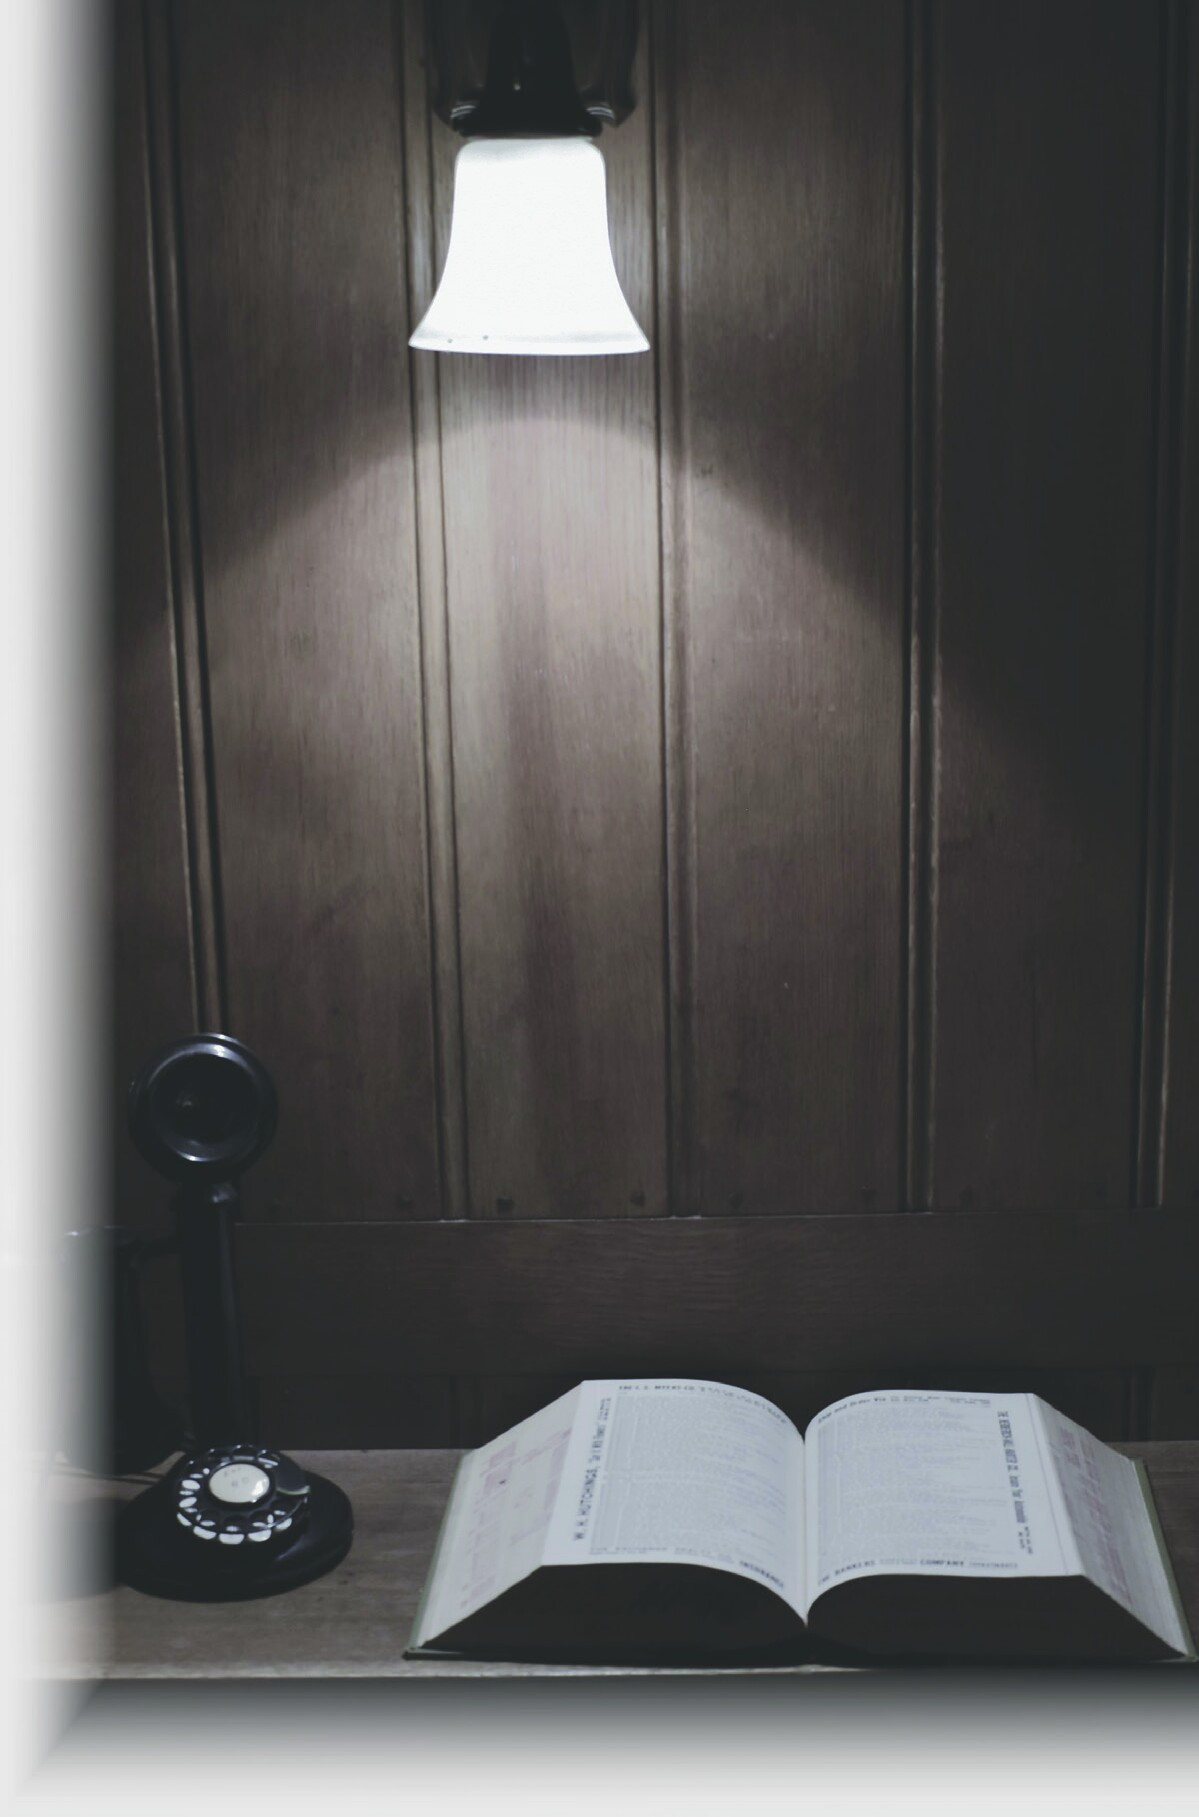
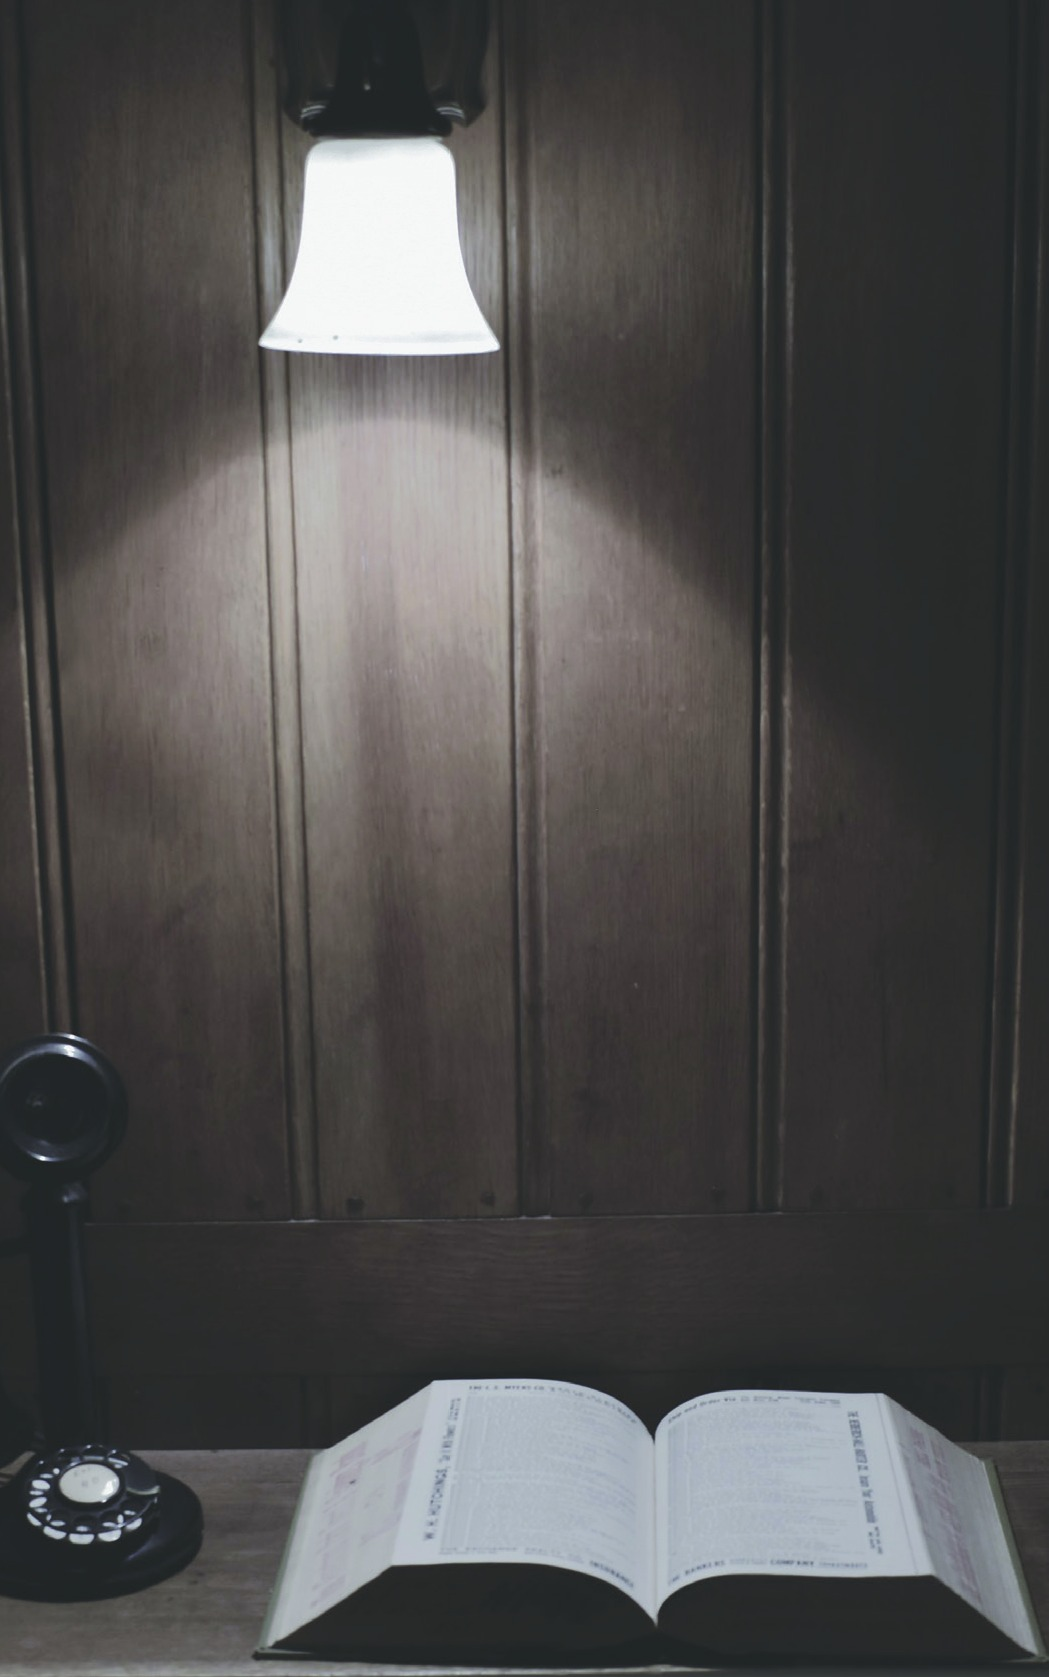
Remove Winter 2018 image overlays

diff --git a/src/e4a449b3-06b6-4826-9f6f-013aa192a096.html b/src/e4a449b3-06b6-4826-9f6f-013aa192a096.html
@@ -1,6 +1,6 @@
 <article data-article-id="e4a449b3-06b6-4826-9f6f-013aa192a096">
   <figure>
-    <img src="/images/e4a449b3-06b6-4826-9f6f-013aa192a096-1.jpg" alt="A lamp, window, flowers, and an open Bible">
+    <img src="/images/e4a449b3-06b6-4826-9f6f-013aa192a096-1.jpg" alt="A lampshade and pull chain before a softly lit window">
   </figure>
   <p><em>Sometimes, Lord, I come before You with a weary mind. The morning has been long… loud with teasing and tension… trampled on and trodden over. Or maybe I am the trampled one. I feel spent already. I don’t have the quiet mind with which one ought to approach the Most High God, but I come anyway. I must. I need You. Today, I heard again the dismal headlines from this sin-sick world. And God, I am afraid, not for myself, but for my children. You give us families like flocks; but we are so inadequate to shelter them from the evil overtaking the earth. Dusky, unnamed fears crouch at the edge of my consciousness, shadowing my daily duties with uneasiness. Things like training, meals, children’s hearts, friends to reach, apologies to make, character to attain—these throng my mind in demanding multitude, leaving me with half-formed prayers and scattered requests. But beyond those regular needs hover disease, deceit, and death. Yet Your Word is all-sufficient. I come before You now, opening this Gift, seeking strength to sustain me. And how fitting is this: today’s reading is Psalm 46, beloved and timeless words. Lord, as I read, my mind makes comment, applying Your words to my life.</em></p>
   <p>********************************************</p>

diff --git a/src/547e464d-0278-45f5-a1f9-1b45bdbc740d.html b/src/547e464d-0278-45f5-a1f9-1b45bdbc740d.html
@@ -20,7 +20,7 @@
   <p>Brother Craig was appointed treasurer at the start-up of our ministry in 2015. We are very grateful for his many hours of faithful service as he has fulfilled these responsibilities. Other than his duties as the treasurer for The Berean Voice, he spends much of his time in his wood shop, where he specializes in cabinetry and other such projects.</p>
   <p>Craig has been married to Diane for 33 years. The Lord has blessed them with ten children, of which two are married. They currently have three grandchildren, which bring them much joy. Some over four years ago, the Baumans moved to Ohio from Wyoming. After their move to this community, they joined our church, Faith Christian Fellowship. A year or so later we divided into two churches on opposite ends of the county, since our church was filled to capacity. At that time Craigs stayed with Shining Light Christian Fellowship, the west church, where they have continued to faithfully serve the Lord.</p>
   <figure>
-    <img src="/images/547e464d-0278-45f5-a1f9-1b45bdbc740d-5.jpg" alt="Craig and Diane Bauman seated with their family in a formal group portrait with Psalm 27:14 printed across the image">
+    <img src="/images/547e464d-0278-45f5-a1f9-1b45bdbc740d-5.jpg" alt="Craig and Diane Bauman seated with their family in a formal group portrait">
   </figure>
   <table>
     <caption><strong>Est. Average—Costs Per Quarter</strong></caption>

diff --git a/AGENTS.md b/AGENTS.md
@@ -234,6 +234,10 @@ Export only images that genuinely belong to eligible articles. Associate an imag
 - Do not generate replacement artwork or materially retouch an image.
 - Crop, rotate, or flip an extracted asset only when needed to reproduce its printed appearance; record that transformation in verification metadata.
 - Do not use a full-page screenshot when a clean article asset can be recovered.
+- Treat publisher-added layout treatments—including separate article or poem text, translucent reading panels, opacity fades or colour washes, section/header/footer bars, page rules and numbers, decorative frames or shadows, and text banners—as layout overlays rather than image content. Do not bake a separable layout overlay into an exported photograph or illustration.
+- For every layered, tiled, masked, or full-page background image, inspect the raw PDF image objects, paint order, clipping paths, soft masks, and transparency groups as well as the rendered page. Export the clean base asset when one exists; otherwise reassemble only the exact base-image pieces at their PDF coordinates. A page render with text objects suppressed is not proof that the remaining raster is overlay-free.
+- Omit separable layout overlays while preserving the underlying source pixels, published crop, aspect ratio, orientation, and useful resolution. Do not mistake intrinsic fog, depth-of-field blur, lighting, toning, or texture for an overlay. Never generate, inpaint, clone, heal, or otherwise synthesize pixels hidden by an overlay. A uniform flattened colour or opacity blend may be reversed only when the exact blend is established by retained source black/white points or equivalent object evidence; record the evidence and deterministic inverse transformation. If an overlay is otherwise irreversibly baked into the only source raster, use a meaningful unobstructed crop only when it remains faithful and useful; otherwise retain the exact source raster and document the unavoidable overlay explicitly instead of claiming that the asset is clean.
+- In each affected image's `rights_note` or verification metadata, identify the clean base object or reconstruction used and name the omitted overlay treatments. Preserve text or markings intrinsic to the only source raster or substantive to a standalone chart, diagram, or graphic; separately painted publisher typography remains a removable overlay.
 - When meaningful vector or font-based content such as sheet music cannot be recovered as a normal embedded image, render only the relevant published region at high resolution, normally 300 dpi or better, and record the render method and resolution.
 - Preserve a suitable original extension and avoid unnecessary conversion or recompression.
 - Open every final image and visually check corruption, truncation, orientation, crop, ownership, and correspondence with the PDF.
@@ -360,10 +364,12 @@ Complete every applicable check before committing:
 13. Confirm every indexed/exported image is referenced exactly once in its owning HTML at the correct logical position and that HTML image order matches index order.
 14. Reconcile the page-by-page visual image census: every visible source image must map to an indexed HTML-referenced export, one documented repeated-image representation, a skipped article, or a named permitted issue-inventory exclusion. A count of internally consistent exported files is not evidence that the source image inventory is complete. Do not set `images_against_pdf` to `verified_by_ai` until this reconciliation balances.
 15. Confirm every image file is indexed, belongs to exactly one eligible article, fully decodes through at least two independent decoders without warnings, opens correctly in a browser-compatible renderer, and visually matches the PDF.
-16. Check for missing, duplicated, and orphaned HTML/image files.
-17. Confirm every nonconsecutive continuation has an ordered `source_pages.pages` array.
-18. Confirm no source PDF, page render, OCR dump, duplicate/transient prompt copy, temporary file, or unrelated change is staged. This canonical `AGENTS.md` is expected repository content and may be staged only when its workflow or the repository contract genuinely changes.
-19. Review the final diff and repository status.
+16. Perform an overlay-cleanliness audit on every final image at full useful resolution. Compare it with both the rendered source page and the raw base image object or reconstructed source pieces; inspect the centre, edges, and corners for residual text, translucent panels, opacity fades, colour washes, bars, rules, frames, shadows, banners, and page furniture. A removable overlay is a publication blocker; an irreversibly baked overlay must be documented as the explicit exception described above.
+17. Confirm that each logical source image has exactly one canonical export unless a genuinely distinct printed crop contains unique image content. When correcting an image, replace its existing canonical path in place and remove every superseded derivative; verify that no old, bad, duplicate, unindexed, or unreferenced image remains in `src/images/`, `index.json`, or article HTML.
+18. Check for missing, duplicated, and orphaned HTML/image files.
+19. Confirm every nonconsecutive continuation has an ordered `source_pages.pages` array.
+20. Confirm no source PDF, page render, OCR dump, duplicate/transient prompt copy, temporary file, or unrelated change is staged. This canonical `AGENTS.md` is expected repository content and may be staged only when its workflow or the repository contract genuinely changes.
+21. Review the final diff and repository status.
 
 Do not set a verification value to `verified_by_ai` until that specific visual comparison has actually been completed. Keep incomplete or uncertain verification explicit and report it.
 
